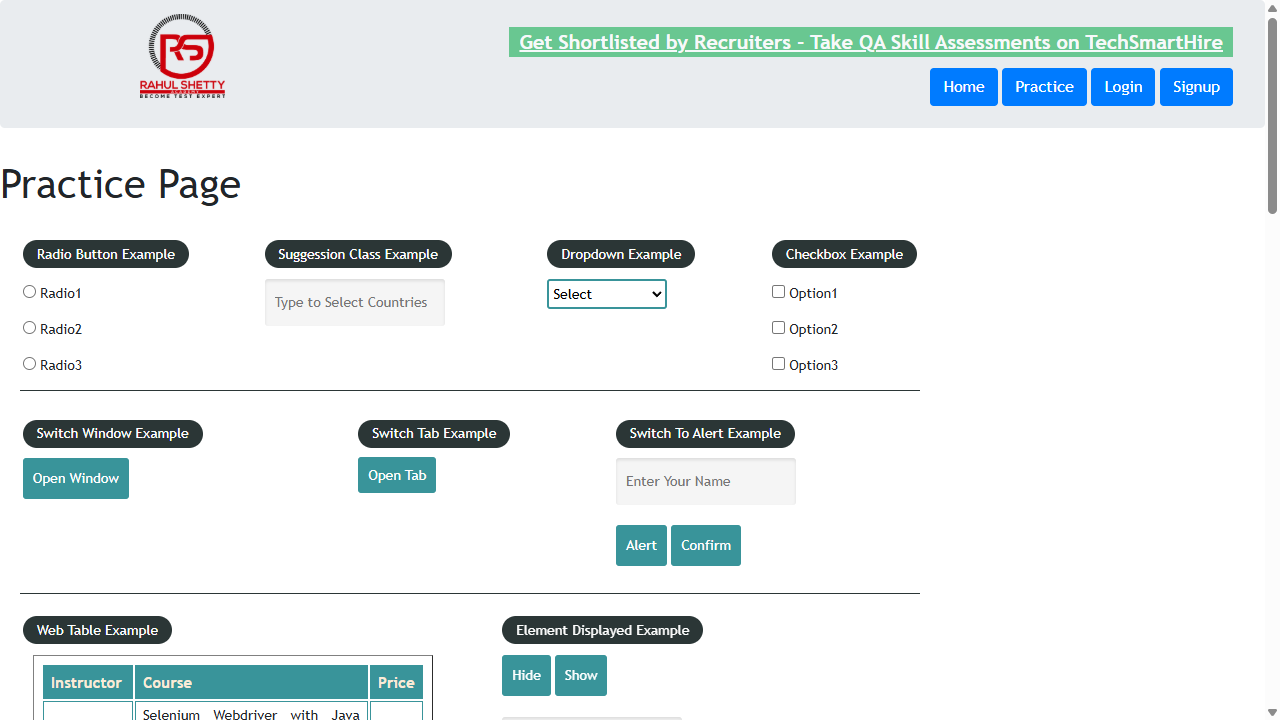
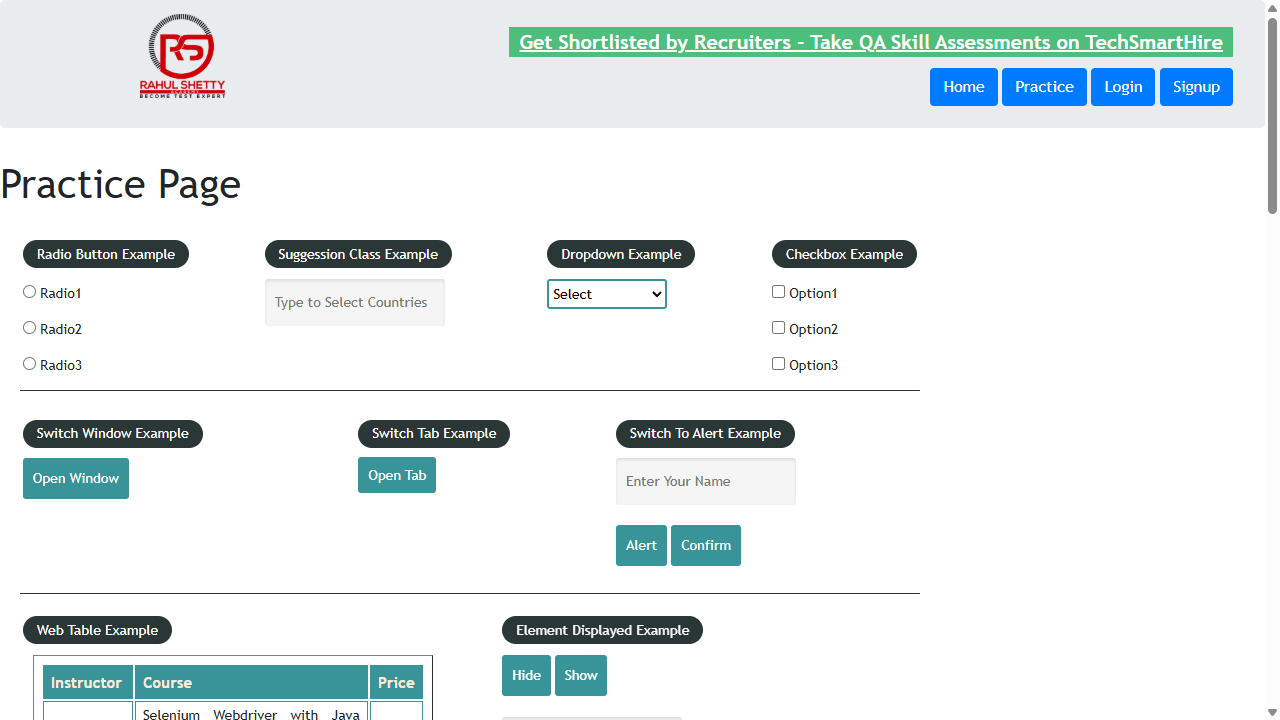
updated changes

Changed region(s): [[0.375, 0.0306, 0.9688, 0.0917]]

diff --git a/tests/e2etesting.spec.js b/tests/e2etesting.spec.js
@@ -71,7 +71,7 @@ test('Third TestCase loginAssignment', async ({browser})=>
         }
     }
 
-    expect(await page.locator(".user__name [type='text']").first()).toHaveText("Das1@gmail.com");
+    //expect(await page.locator(".user__name [type='text']").first()).toHaveText("singh111@gmail.com");
     await page.locator(".action__submit").click();
     expect(await page.locator(".hero-primary")).toHaveText(" Thankyou for the order. ");
     const orderID = await page.locator(".em-spacer-1 .ng-star-inserted").textContent();

diff --git a/tests/webAPIPart2.spec.js b/tests/webAPIPart2.spec.js
@@ -72,7 +72,7 @@ test('Third TestCase loginAssignment', async ({browser})=>
         }
     }
 
-    expect(await page.locator(".user__name [type='text']").first()).toHaveText("Das1@gmail.com");
+    //expect(await page.locator(".user__name [type='text']").first()).toHaveText("OmDas@gmail.com");
     await page.locator(".action__submit").click();
     expect(await page.locator(".hero-primary")).toHaveText(" Thankyou for the order. ");
     const orderID = await page.locator(".em-spacer-1 .ng-star-inserted").textContent();

diff --git a/tests/webAPIPart1.spec.js b/tests/webAPIPart1.spec.js
@@ -1,7 +1,7 @@
 const {test,expect,request} = require('@playwright/test')
 
 
-const loginPayload = {userEmail: "Das1@gmail.com", userPassword: "Qwerty@@123"}
+const loginPayload = {userEmail: "Dinesh@mail.com", userPassword: "Qazwsp@123"}
 
 
 test.beforeAll( async()=> {
